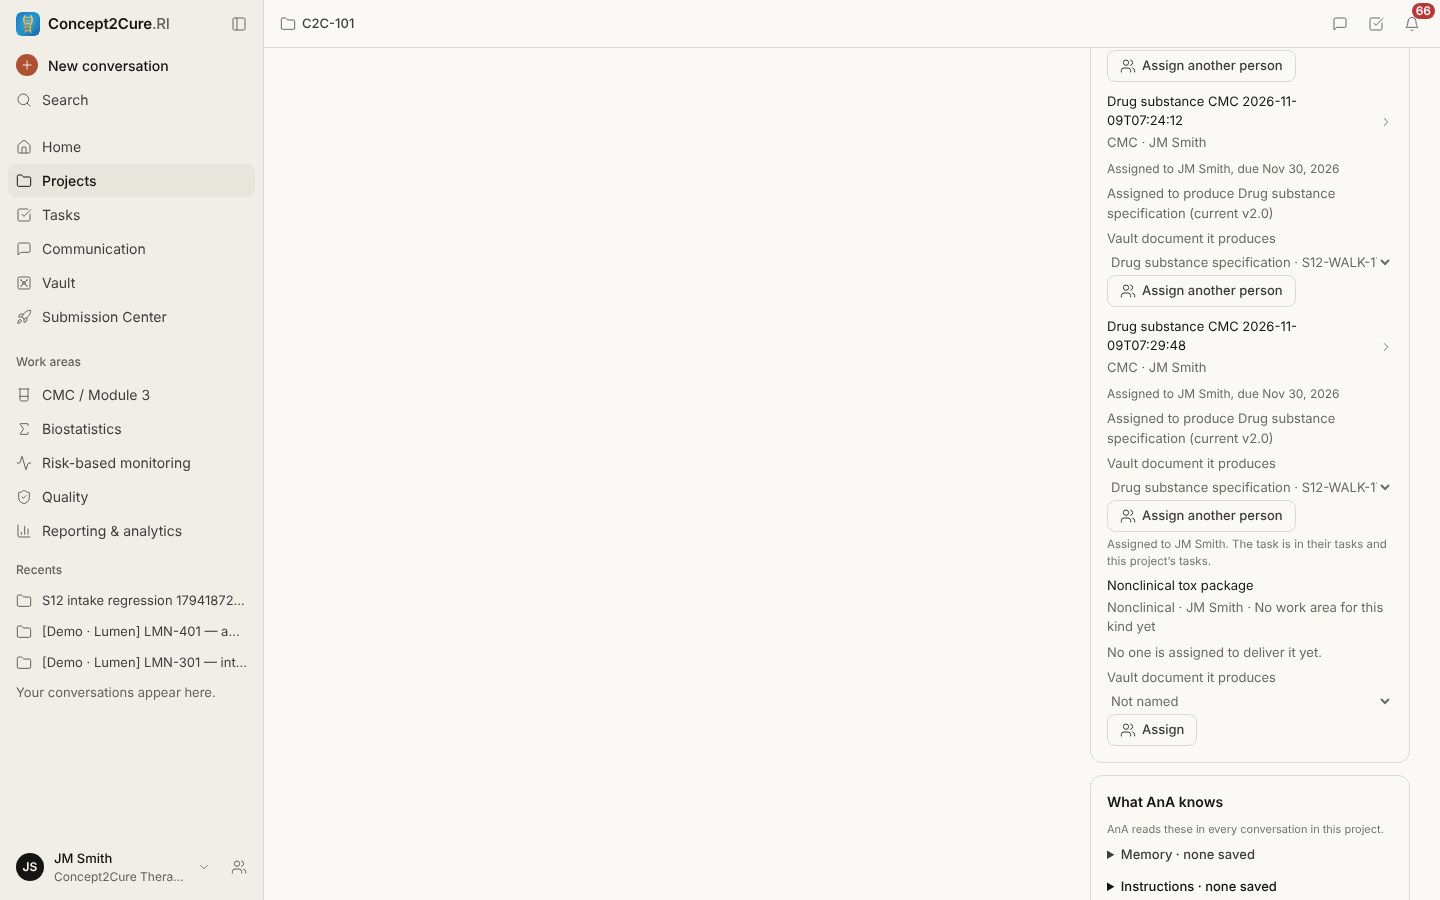
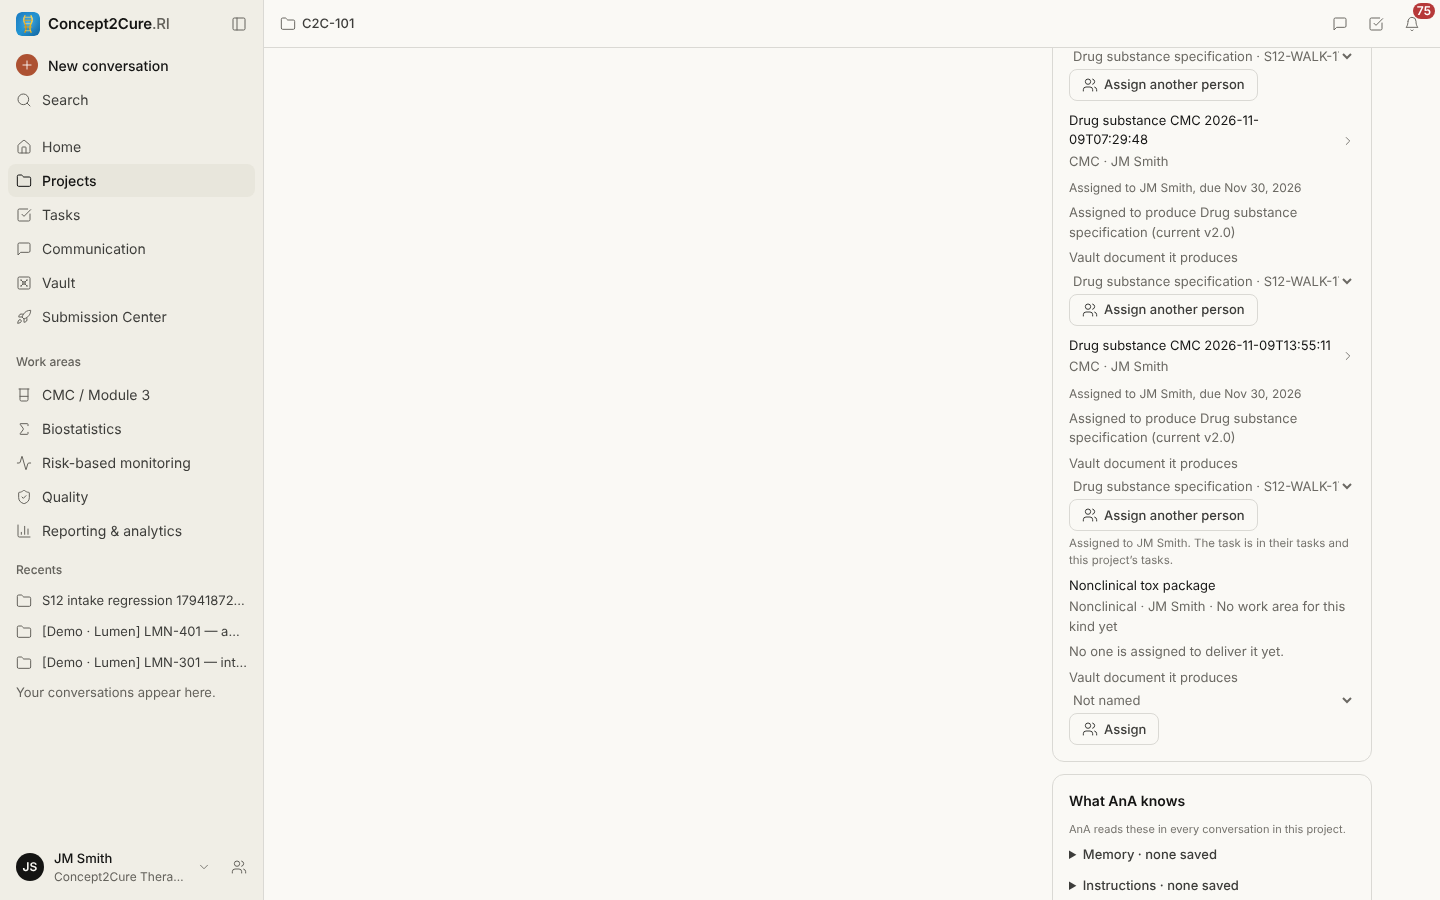
S12: gap 5 slice 2's map picker re-walked on the D0 §8.6 page frame
The walk passes unchanged on trunk with 35f5fb4747 (max 1120, padding 32/40): the refusal, the
picker, the assignment read back, and 390 dark with no sideways scroll.

Plan: S12
Completes: docs/evidence/SPINE/S12/2026-11-09-program-map-slice-2/README.md
Claude-Session: https://claude.ai/code/session_01FTWcmXm7At3ZXBE5VWn6oS

Changed region(s): [[0.75, 0.0622, 0.9688, 0.9956]]

diff --git a/docs/evidence/SPINE/S12/2026-11-09-program-map-slice-2/README.md b/docs/evidence/SPINE/S12/2026-11-09-program-map-slice-2/README.md
@@ -129,3 +129,16 @@ A third list of a program's Vault documents is not to be added. A later picker r
 
   The walk's first run caught the picker widening the row by 418px at 390. It was sized by its longest option. The D3
   rule above fixes that, and the walk now checks there is no sideways scroll.
+
+## After the D0 §8.6 page frame (`35f5fb4747`, re-walked 2026-11-09)
+
+The coordinating session's one page frame changed the project page's width and padding: max 1120, padding 32/40.
+`walk.cjs` was run again unchanged, on trunk with the frame (`walk-after-frame.log`). All six steps pass:
+- a code from outside the program is refused (409);
+- the picker lists the program's families by title, code and version;
+- Assign files the chosen family;
+- the row reads it back;
+- at 390 dark the picker starts from the assigned family, with no sideways scroll.
+
+The screenshots and `walk.json` in this folder are now from this run. The family picker stays inside its row in the
+frame's right column at 1440 (`assigned-to-produce-1440-light.png`) and at 390 (`assigned-to-produce-390-dark.png`).
